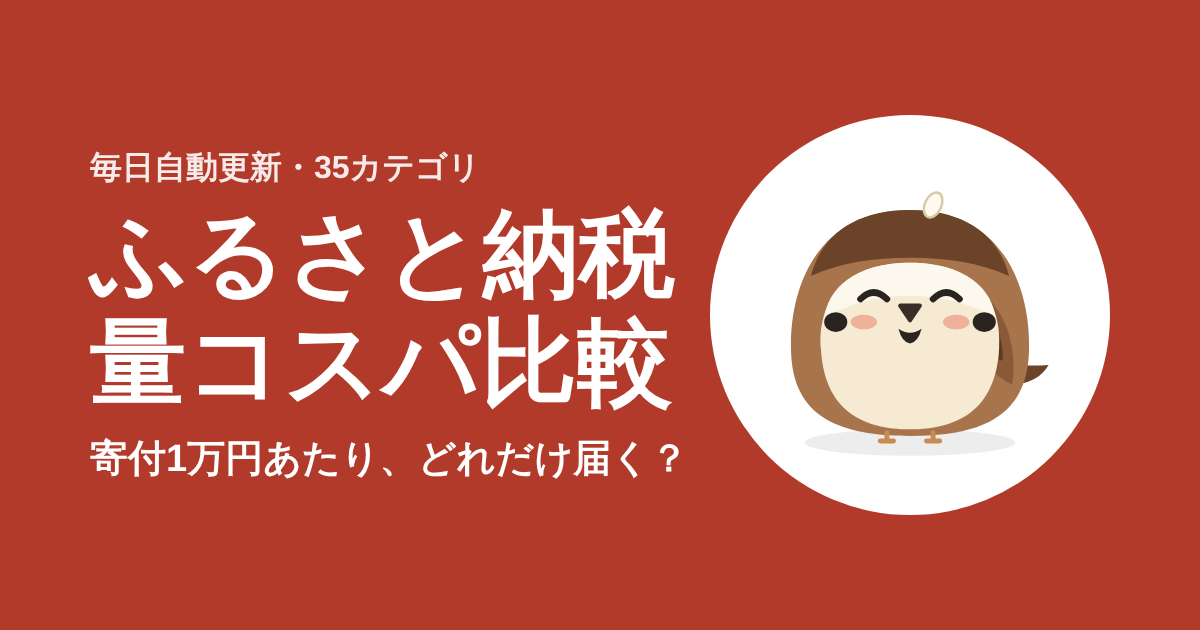
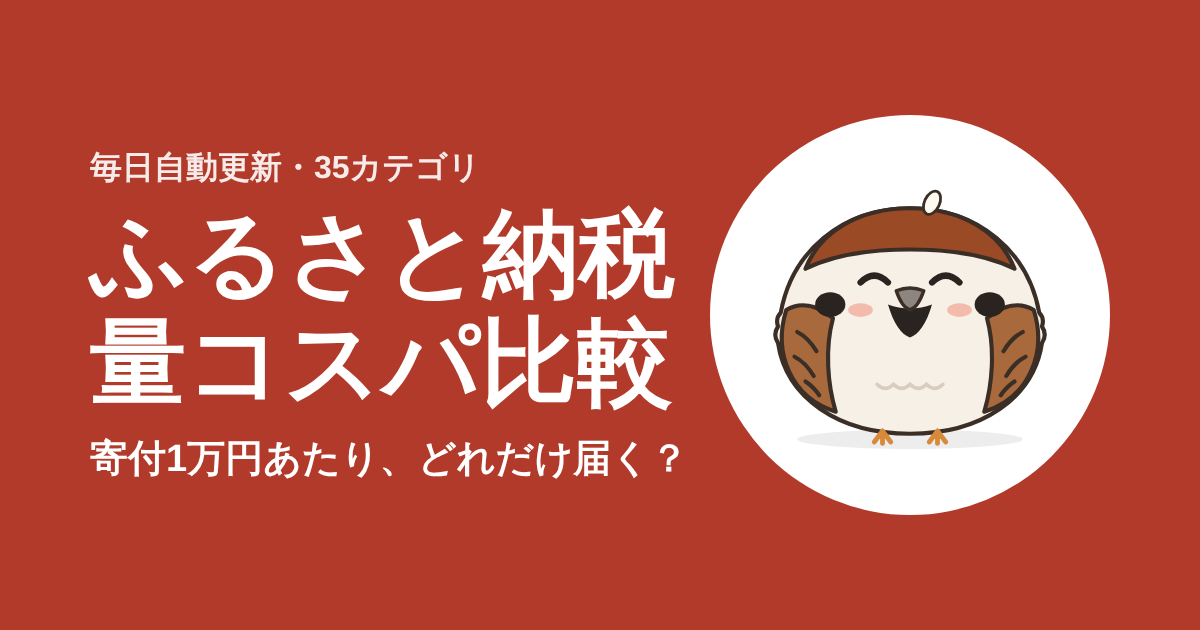
ふくすけを横に広い丸・笑顔のスズメに描き直し、シミュレーター入口を旬の上の細い帯に
Claude-Session: https://claude.ai/code/session_01YAWB4gwDWoJPJaMZbJ8cc9

Changed region(s): [[0.6475, 0.3016, 0.8942, 0.7238], [0.74, 0.6032, 0.7708, 0.6333]]

diff --git a/core/static/base.css b/core/static/base.css
@@ -64,7 +64,11 @@ main { min-width: 0; }
 .say { display: inline-block; margin: 8px 0 0; font-size: 13px; color: var(--ink); background: var(--panel); border-radius: 12px 12px 12px 2px; padding: 4px 12px; }
 br.sp { display: inline; }
 
-/* シミュレーターへの入口 */
+/* シミュレーターへの入口(トップは細い帯) */
+.sim-strip { display: flex; flex-wrap: wrap; align-items: baseline; gap: 2px 12px; text-decoration: none; color: var(--ink); border: 2px solid var(--accent); border-radius: 10px; padding: 8px 14px; margin: 0 0 4px; }
+.sim-strip b { font-family: var(--head); color: var(--accent); font-size: 16px; }
+.sim-strip span { font-size: 13px; color: var(--muted); }
+.sim-strip:hover { background: var(--soft); }
 .sim-banner { display: block; text-decoration: none; color: var(--ink); border: 2px solid var(--accent); border-radius: 12px; padding: 12px 16px; margin: 0 0 8px; }
 .sim-banner b { display: block; font-family: var(--head); font-size: 18px; color: var(--accent); }
 .sim-banner span { font-size: 13px; color: var(--muted); }

diff --git a/sites/furusato/templates/index.html b/sites/furusato/templates/index.html
@@ -9,7 +9,7 @@
   </div>
 </section>
 
-
+<a class="sim-strip" href="{{ page.root }}simulator/"><b>いくらまで寄付できる？</b><span>年収を入れるだけで控除上限額を計算</span></a>
 
 {% if nav.season %}
 <section class="season" id="season">
@@ -33,10 +33,7 @@
 </section>
 {% endif %}
 
-<a class="sim-banner" href="{{ page.root }}simulator/">
-  <b>いくらまで寄付できる？</b>
-  <span>年収と家族構成を入れるだけで、控除上限額の目安と、その金額で選べる量コスパ1位が分かります</span>
-</a>
+
 
 <h2 class="h-board">定番カテゴリの1位</h2>
 {% with list = nav.tops %}{% include "_board.html" %}{% endwith %}
